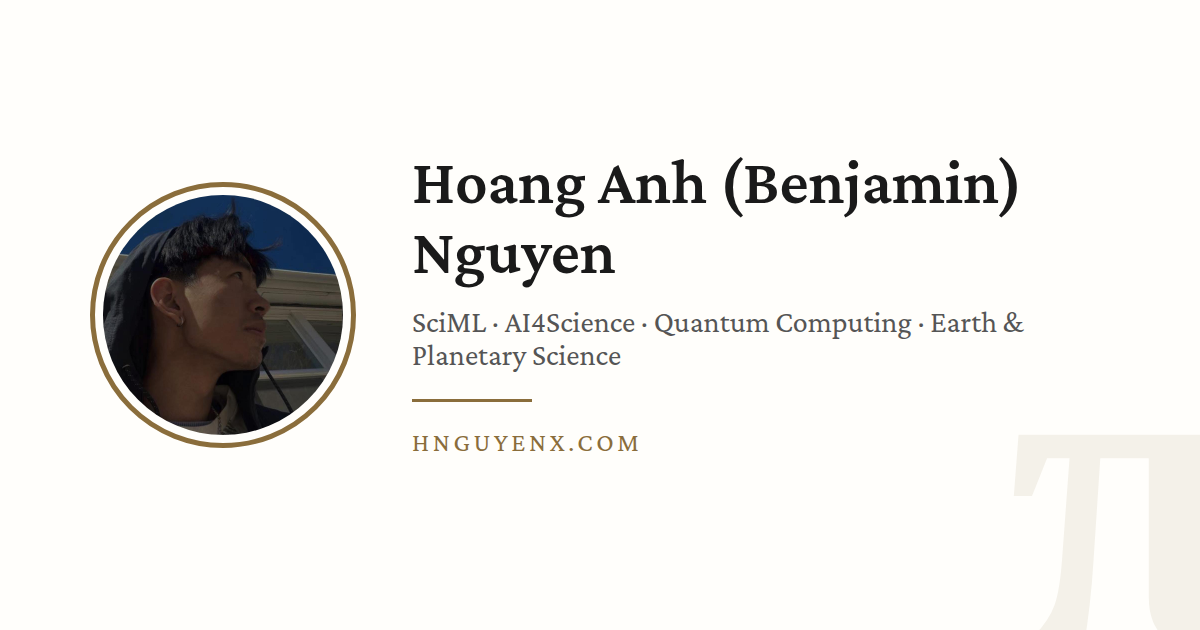
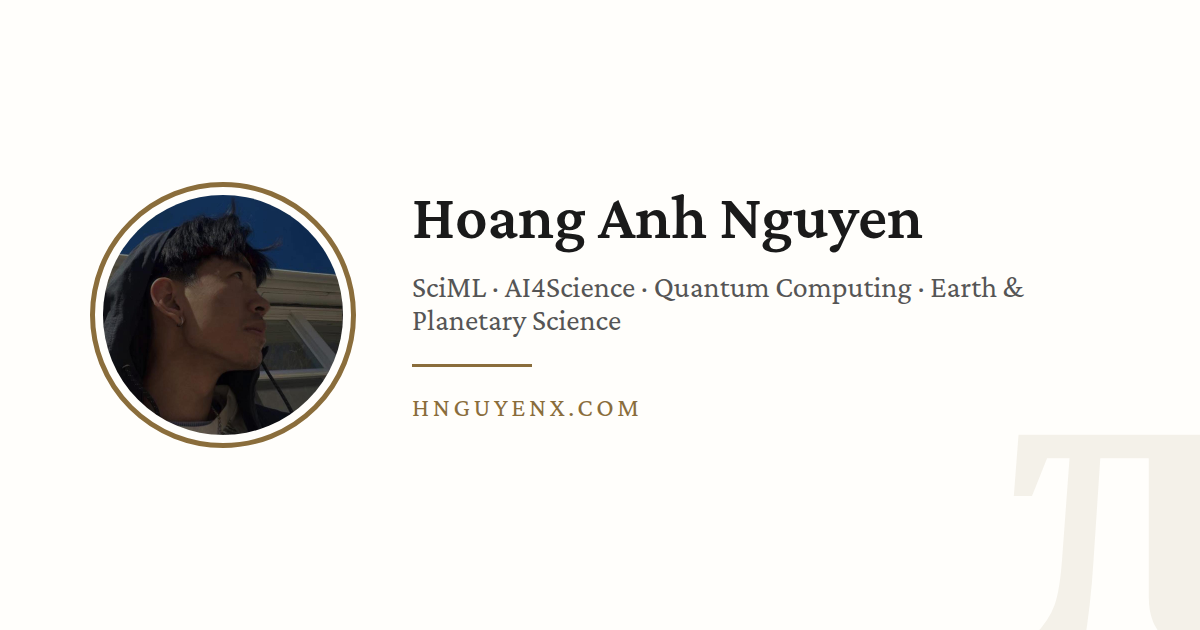
Share card: Hoang Anh Nguyen on image, title Ben

Changed region(s): [[0.3392, 0.2413, 0.8633, 0.6032], [0.3392, 0.6937, 0.555, 0.7238], [0.3392, 0.6333, 0.555, 0.6635]]

diff --git a/index.html b/index.html
@@ -7,15 +7,15 @@
   <meta name="description" content="SciML · AI4Science · Quantum Computing · Earth &amp; Planetary Science — personal academic site of Hoang Anh (Benjamin) Nguyen.">
   <meta property="og:type" content="website">
   <meta property="og:site_name" content="Hoang Anh (Benjamin) Nguyen">
-  <meta property="og:title" content="Hoang Anh (Benjamin) Nguyen">
+  <meta property="og:title" content="Ben">
   <meta property="og:description" content="SciML · AI4Science · Quantum Computing · Earth &amp; Planetary Science">
   <meta property="og:url" content="https://hnguyenx.com/">
   <meta property="og:image" content="https://hnguyenx.com/assets/og-card.png">
   <meta property="og:image:width" content="1200">
   <meta property="og:image:height" content="630">
-  <meta property="og:image:alt" content="Hoang Anh (Benjamin) Nguyen — SciML, AI4Science, Quantum Computing, Earth &amp; Planetary Science">
+  <meta property="og:image:alt" content="Hoang Anh Nguyen — SciML, AI4Science, Quantum Computing, Earth &amp; Planetary Science">
   <meta name="twitter:card" content="summary_large_image">
-  <meta name="twitter:title" content="Hoang Anh (Benjamin) Nguyen">
+  <meta name="twitter:title" content="Ben">
   <meta name="twitter:description" content="SciML · AI4Science · Quantum Computing · Earth &amp; Planetary Science">
   <meta name="twitter:image" content="https://hnguyenx.com/assets/og-card.png">
   <link rel="stylesheet" href="style.css">
